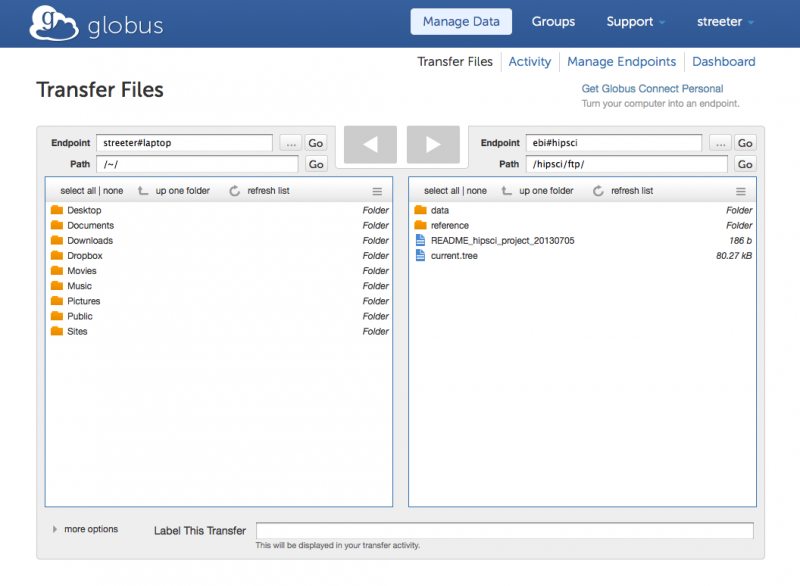
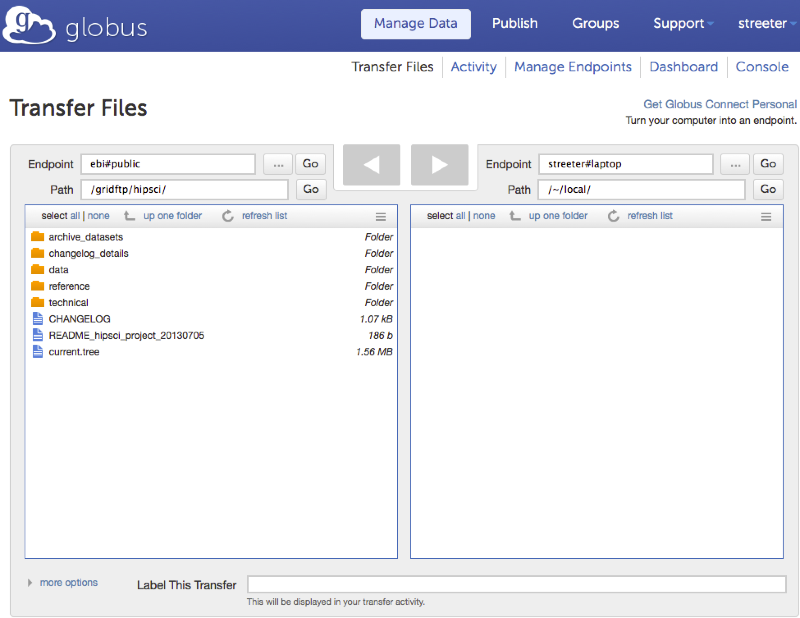
Updated documentation for the new globus endpoint

Changed region(s): [[0.0, 0.0, 1.0, 1.0], [0.0, 0.1229, 0.2188, 0.1843]]

diff --git a/data/_posts/1111-11-11-navigation.md b/data/_posts/1111-11-11-navigation.md
@@ -51,8 +51,7 @@ In order to access the data you need to sign up for an account with Globus via
 their signup page. You must also install the [Globus Connect Personal software](https://support.globus.org/entries/24044351)
 and setup a personal endpoint to download the data too.
 
-The HipSci end point is one of several EMBL-EBI hosted end points and is called
-ebi#hipsci
+HipSci data are available from the end point ebi#public, which is one of several end points hosted by EMBL-EBI.
 
 When you have setup your personal end point you should be able to start a
 transfer using their web front end.
